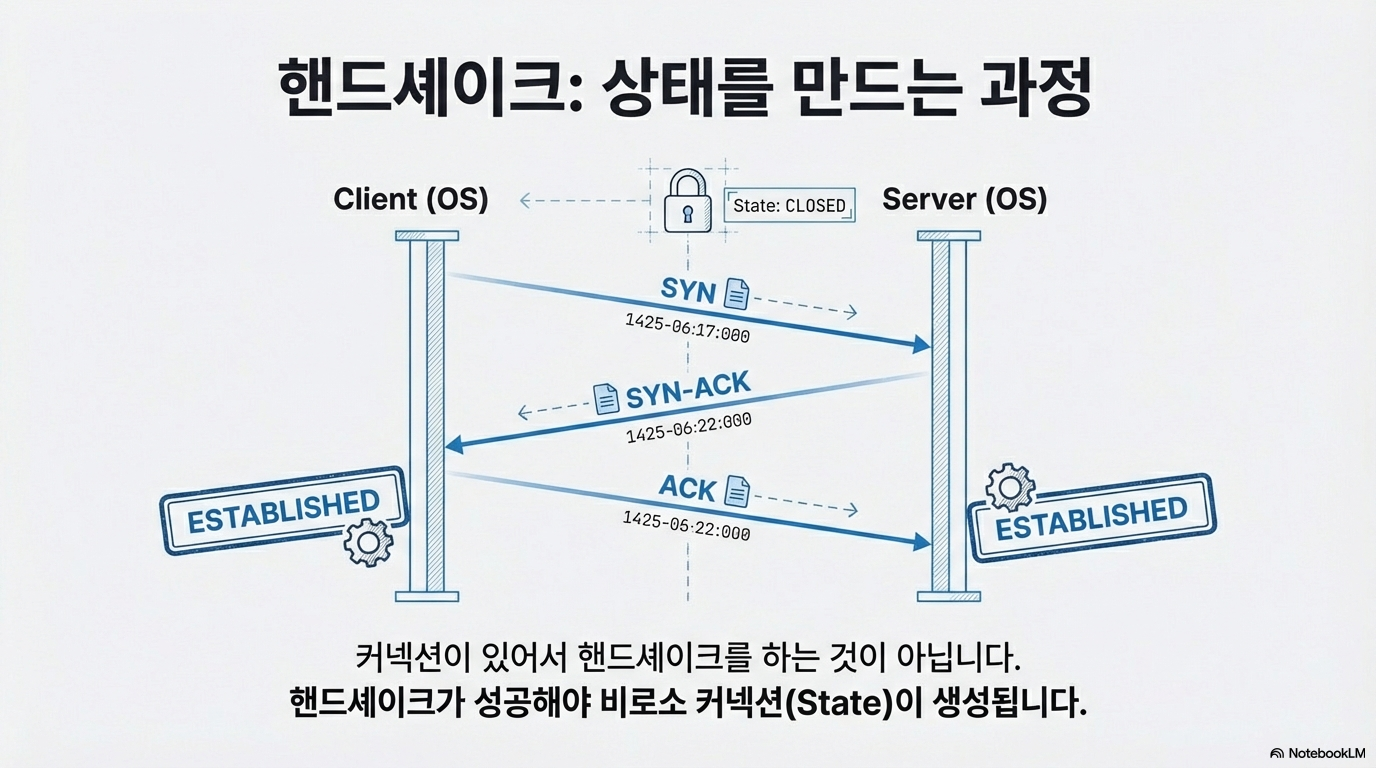
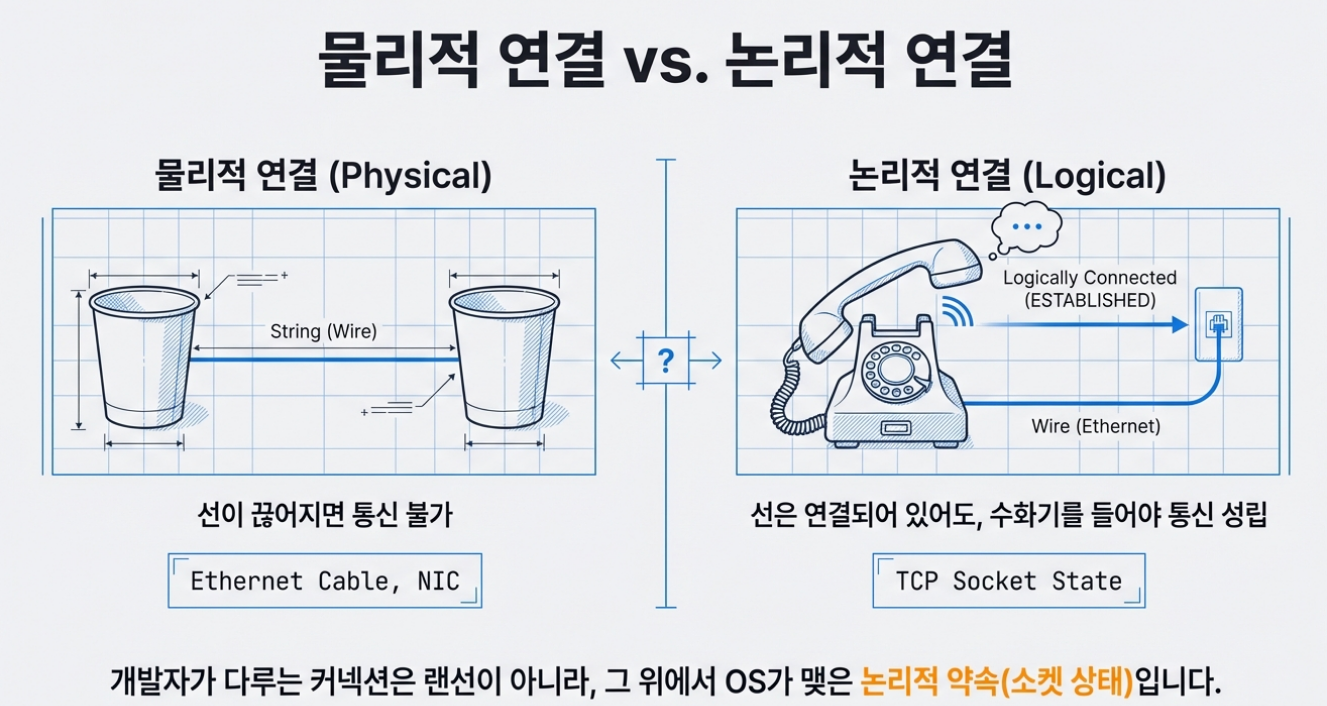
커넥션이란 무엇인가에 대한 글을 적어봤습니다.

Changed region(s): [[0.0309, 0.2181, 1.0, 0.9972], [0.1854, 0.0312, 0.8033, 0.1558]]

diff --git a/assets/css/main.css b/assets/css/main.css
@@ -250,11 +250,12 @@ a:hover {
   max-width: 1200px;
   margin: 0 auto;
   padding: 0 1.5rem;
+  align-items: flex-start;
 }
 
 /* ===== Post Detail ===== */
 .post-detail {
-  flex: 1;
+  flex: 1 1 0%;
   min-width: 0;
   max-width: 750px;
   padding: 2rem 0 4rem;
@@ -332,6 +333,8 @@ a:hover {
   border-collapse: collapse;
   margin-bottom: 1.5rem;
   font-size: 0.95rem;
+  display: block;
+  overflow-x: auto;
 }
 
 .post-detail__content th,
@@ -363,6 +366,7 @@ a:hover {
   overflow-x: auto;
   margin-bottom: 1.5rem;
   line-height: 1.5;
+  max-width: 100%;
 }
 
 .post-detail__content pre code {

diff --git a/_posts/2026-02-06-what-is-conntection.md b/_posts/2026-02-06-what-is-conntection.md
@@ -105,6 +105,8 @@ DNS 질의가 대표적이죠.
 물리적 연결과 논리적 연결의 차이.
 이걸 이해하는 가장 쉬운 방법은, 아주 오래된 장난감을 떠올리는 겁니다.
 
+![img.png](img.png)
+
 *왼쪽이 물리적 연결입니다. 선이 끊어지면 끝. 오른쪽이 논리적 연결입니다. 선은 항상 꽂혀 있지만, 수화기를 들어야 "통화"가 성립합니다.*
 
 **종이컵 전화기**를 떠올려 보세요.
@@ -514,7 +516,6 @@ DB 서버가 커넥션을 끊었습니다 (FIN 패킷을 보냈습니다).
 
 > "DB 커넥션이랑 애플리케이션 커넥션은 다른 건가요?"
 
-![추상화 아래를 보는 개발자](/images/slide-15.png)
 
 **OS에게는 같습니다.**
 둘 다 TCP 소켓이고, 파일 디스크립터이고, 커널 메모리의 상태입니다.
